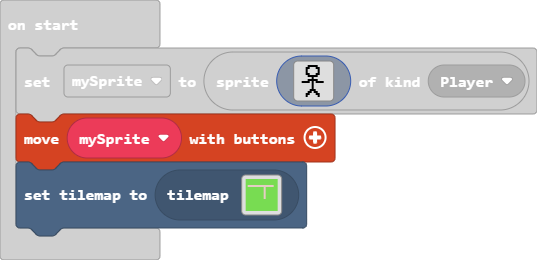
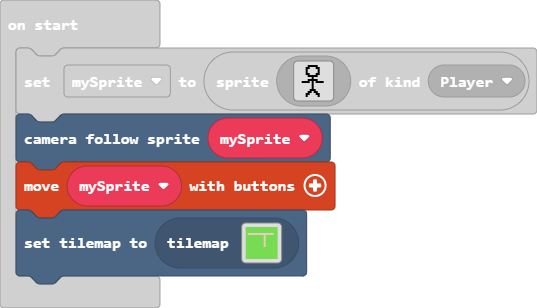
Update main.blocks, main.ts

diff --git a/main.ts b/main.ts
@@ -16,5 +16,6 @@ let mySprite = sprites.create(img`
     . . . . f f . . . f f . . . . . 
     . . . . f . . . . . f . . . . . 
     `, SpriteKind.Player)
+scene.cameraFollowSprite(mySprite)
 controller.moveSprite(mySprite)
 tiles.setCurrentTilemap(tilemap`level2`)
